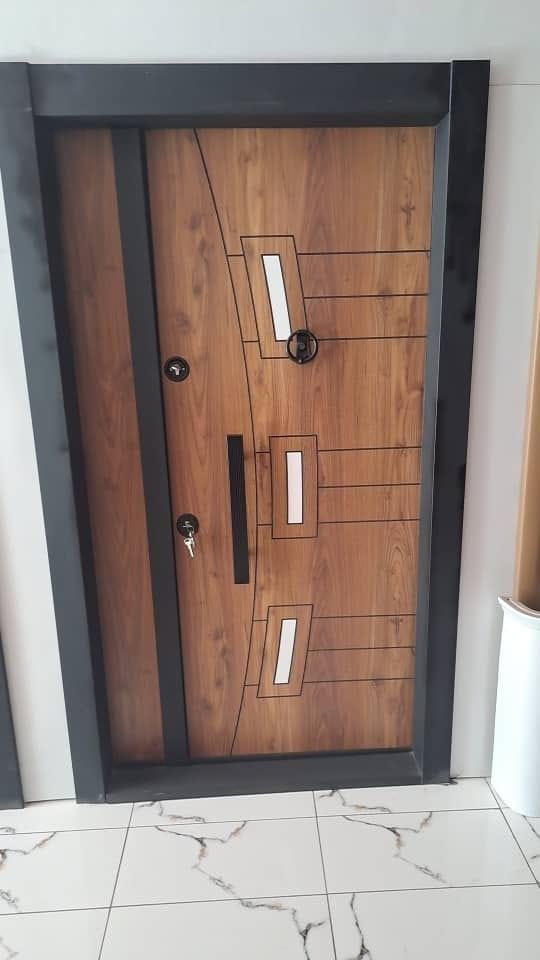
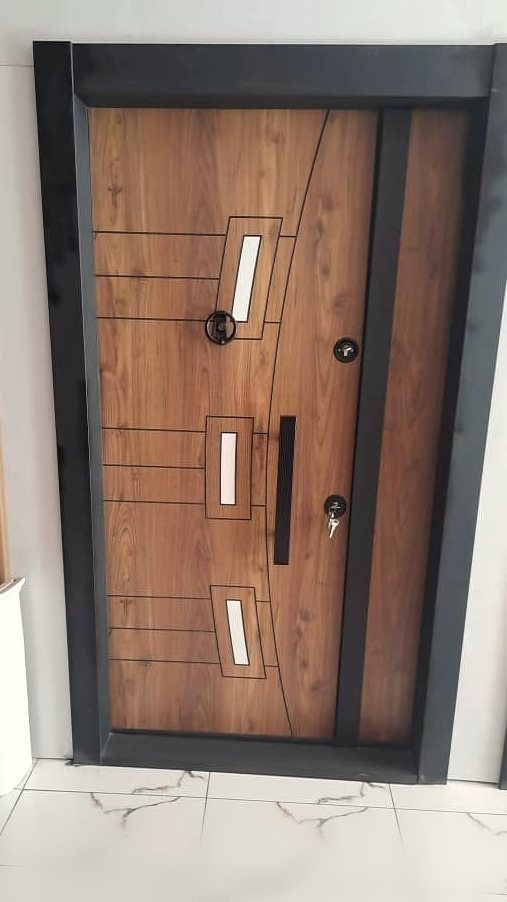
Our work: anonymise the remaining 17 project photos
All reel photos are clients' projects, so the ceilings, columns and doors
now get the same treatment as the interiors: mirrored, re-cropped, shared
colour grade, and identifying details removed - window views (office,
timber-beam tray, blue tray), the outside view between the fluted columns,
patterned floors under the doors, and the dome's street window, marker
patch and scaffold poles (cropped out).

diff --git a/src/content/works.ts b/src/content/works.ts
@@ -3,8 +3,9 @@ import type { L } from "./localized";
 /*
  * "Our work" reel on the home page: photos of finished and in-progress jobs.
  * Editors manage these in the Studio ("Work photos"); this list is used until any are published.
- * Source: assets/works_done (photos with other companies' watermarks were left out). Photos of
- * clients' rooms are anonymised: mirrored, personal items blurred, distinctive furnishings recoloured.
+ * Source: assets/works_done (photos with other companies' watermarks were left out). Every photo
+ * is of a client's project, so all are anonymised by scripts/anonymise-works.py: mirrored, cropped,
+ * personal items and views blurred, distinctive furnishings recoloured.
  */
 
 export const workCategories = ["ceilings", "classical", "joinery", "interiors", "doors"] as const;
@@ -31,28 +32,28 @@ const w = (id: string, category: WorkCategory, width: number, height: number, en
 /** In display order: groups alternate so the full reel has rhythm. */
 export const works: WorkPhoto[] = [
   w("majlis-seating", "interiors", 1504, 1128, "Majlis seating", "جلسة مجلس"),
-  w("oval-cove-chandelier", "ceilings", 735, 859, "Oval cove with crystal chandelier", "تجويف بيضاوي مع ثريا كريستال"),
-  w("columns-capitals-cornice", "classical", 1600, 1200, "Corinthian capitals and dentil cornice", "تيجان كورنثية وكورنيش مسنّن"),
+  w("oval-cove-chandelier", "ceilings", 706, 824, "Oval cove with crystal chandelier", "تجويف بيضاوي مع ثريا كريستال"),
+  w("columns-capitals-cornice", "classical", 1536, 1152, "Corinthian capitals and dentil cornice", "تيجان كورنثية وكورنيش مسنّن"),
   w("tv-wall-lit-shelves", "joinery", 707, 873, "TV wall with lit shelving", "جدار تلفاز مع رفوف مضاءة"),
-  w("tray-blue-cove", "ceilings", 736, 736, "Layered tray with blue cove light", "سقف متدرج بإضاءة زرقاء مخفية"),
-  w("fluted-columns-site", "classical", 1200, 1600, "Fluted columns, on site", "أعمدة مضلّعة أثناء التنفيذ"),
+  w("tray-blue-cove", "ceilings", 707, 713, "Layered tray with blue cove light", "سقف متدرج بإضاءة زرقاء مخفية"),
+  w("fluted-columns-site", "classical", 1128, 1552, "Fluted columns, on site", "أعمدة مضلّعة أثناء التنفيذ"),
   w("fireplace-wall-slats", "joinery", 983, 1475, "Fireplace wall with timber slats", "جدار مدفأة بشرائح خشبية"),
-  w("round-fretwork-ceiling", "ceilings", 720, 720, "Round fretwork feature ceiling", "سقف بزخرفة دائرية مفرّغة"),
-  w("door-vertical-grooves", "doors", 540, 960, "Entrance door with vertical grooves", "باب مدخل بأخاديد عمودية"),
-  w("dome-dentil-cornice", "classical", 1600, 1200, "Dome with dentil cornice", "قبة بكورنيش مسنّن"),
-  w("stepped-warm-cove", "ceilings", 720, 720, "Stepped ceiling with warm cove light", "سقف متدرج بإضاءة دافئة"),
+  w("round-fretwork-ceiling", "ceilings", 691, 691, "Round fretwork feature ceiling", "سقف بزخرفة دائرية مفرّغة"),
+  w("door-vertical-grooves", "doors", 507, 902, "Entrance door with vertical grooves", "باب مدخل بأخاديد عمودية"),
+  w("dome-dentil-cornice", "classical", 976, 1200, "Dome with dentil cornice", "قبة بكورنيش مسنّن"),
+  w("stepped-warm-cove", "ceilings", 691, 691, "Stepped ceiling with warm cove light", "سقف متدرج بإضاءة دافئة"),
   w("fitted-kitchen", "joinery", 677, 497, "Fitted kitchen", "مطبخ مُجهّز"),
-  w("pilaster-cornice-corner", "classical", 1200, 1600, "Pilaster and cornice corner", "زاوية عمود جداري وكورنيش"),
-  w("office-acoustic-ceiling", "ceilings", 899, 1599, "Office ceiling with acoustic panels and linear lights", "سقف مكتبي بألواح صوتية وإضاءة خطية"),
-  w("door-two-tone", "doors", 540, 960, "Two-tone entrance door", "باب مدخل بلونين"),
+  w("pilaster-cornice-corner", "classical", 1152, 1536, "Pilaster and cornice corner", "زاوية عمود جداري وكورنيش"),
+  w("office-acoustic-ceiling", "ceilings", 846, 1247, "Office ceiling with acoustic panels and linear lights", "سقف مكتبي بألواح صوتية وإضاءة خطية"),
+  w("door-two-tone", "doors", 507, 902, "Two-tone entrance door", "باب مدخل بلونين"),
   w("tv-wall-marble-slats", "joinery", 541, 839, "Marble-effect TV wall with slats", "جدار تلفاز بتأثير الرخام وشرائح"),
-  w("sculpted-backlit-curves", "ceilings", 518, 683, "Sculpted ceiling with backlit curves", "سقف بمنحنيات مضاءة من الخلف"),
-  w("column-base-panelling", "classical", 1200, 1600, "Column base and wall panelling", "قاعدة عمود وتكسية جدارية"),
+  w("sculpted-backlit-curves", "ceilings", 497, 656, "Sculpted ceiling with backlit curves", "سقف بمنحنيات مضاءة من الخلف"),
+  w("column-base-panelling", "classical", 1152, 1536, "Column base and wall panelling", "قاعدة عمود وتكسية جدارية"),
   w("bedroom-timber-ceiling", "interiors", 720, 604, "Bedroom with timber ceiling feature", "غرفة نوم بسقف خشبي مميز"),
-  w("tray-timber-beams", "ceilings", 720, 720, "Gypsum tray with timber beams", "سقف جبس متدرج بعوارض خشبية"),
-  w("door-inlay", "doors", 540, 960, "Entrance door with inlay pattern", "باب مدخل بنقش مطعّم"),
+  w("tray-timber-beams", "ceilings", 691, 684, "Gypsum tray with timber beams", "سقف جبس متدرج بعوارض خشبية"),
+  w("door-inlay", "doors", 507, 902, "Entrance door with inlay pattern", "باب مدخل بنقش مطعّم"),
   w("walk-in-wardrobe", "joinery", 691, 691, "Walk-in wardrobe", "غرفة ملابس"),
-  w("tray-blue-lit", "ceilings", 720, 900, "Tray ceiling with blue light", "سقف متدرج بإضاءة زرقاء"),
+  w("tray-blue-lit", "ceilings", 691, 864, "Tray ceiling with blue light", "سقف متدرج بإضاءة زرقاء"),
   w("living-layered-ceiling", "interiors", 460, 450, "Living room with layered ceiling", "غرفة معيشة بسقف متدرج"),
-  w("door-classic-panels", "doors", 540, 960, "Classic panelled door", "باب كلاسيكي بحشوات"),
+  w("door-classic-panels", "doors", 507, 902, "Classic panelled door", "باب كلاسيكي بحشوات"),
 ];

diff --git a/scripts/anonymise-works.py b/scripts/anonymise-works.py
@@ -16,7 +16,13 @@ SRC = sys.argv[1]  # assets/works_done
 OUT = sys.argv[2]  # public/images/works
 files = sorted(glob.glob(os.path.join(SRC, "*.jpeg")))
 source = {"majlis-seating": 21, "bedroom-timber-ceiling": 24, "living-layered-ceiling": 37, "fitted-kitchen": 25,
-          "tv-wall-lit-shelves": 44, "tv-wall-marble-slats": 31, "fireplace-wall-slats": 51, "walk-in-wardrobe": 22}
+          "tv-wall-lit-shelves": 44, "tv-wall-marble-slats": 31, "fireplace-wall-slats": 51, "walk-in-wardrobe": 22,
+          # ceilings, columns and doors: also clients' buildings
+          "columns-capitals-cornice": 6, "dome-dentil-cornice": 10, "fluted-columns-site": 1, "column-base-panelling": 5,
+          "pilaster-cornice-corner": 11, "oval-cove-chandelier": 40, "tray-blue-cove": 52, "stepped-warm-cove": 48,
+          "round-fretwork-ceiling": 49, "tray-timber-beams": 27, "tray-blue-lit": 46, "sculpted-backlit-curves": 33,
+          "office-acoustic-ceiling": 53, "door-vertical-grooves": 17, "door-two-tone": 14, "door-inlay": 18,
+          "door-classic-panels": 19}
 
 
 def px(im, box):
@@ -32,6 +38,18 @@ def blur_box(im, box, radius):
     m = max(2, min(region.size) // 8)
     ImageDraw.Draw(mask).rectangle((m, m, region.size[0] - m, region.size[1] - m), fill=255)
     im.paste(region, b[:2], mask.filter(ImageFilter.GaussianBlur(m)))
+
+
+def patch(im, box, dx, dy):
+    """Cover a box with a clean piece of the same surface from (dx, dy) away, soft-edged."""
+    b = px(im, box)
+    w, h = im.size
+    sx, sy = int(dx * w), int(dy * h)
+    piece = im.crop((b[0] + sx, b[1] + sy, b[2] + sx, b[3] + sy))
+    mask = Image.new("L", piece.size, 0)
+    m = max(2, min(piece.size) // 12)
+    ImageDraw.Draw(mask).rectangle((m, m, piece.size[0] - m, piece.size[1] - m), fill=255)
+    im.paste(piece, b[:2], mask.filter(ImageFilter.GaussianBlur(m * 0.8)))
 
 
 def blur_poly(im, pts, radius, desaturate=0.0):
@@ -125,6 +143,25 @@ def process(name, im):
     elif name == "tv-wall-lit-shelves":
         blur_box(im, (0.40, 0.48, 0.68, 0.70), 6)
         im = crop(im, (0.02, 0.0, 0.98, 0.97))
+    elif name == "dome-dentil-cornice":
+        # the street window (left), a marker patch and scaffold poles (right) all sit at the
+        # edges: crop to the dome and cornice, and soften the last bit of pole
+        blur_box(im, (0.74, 0.40, 0.80, 0.58), 12)
+        im = crop(im, (0.18, 0.0, 0.79, 1.0))
+    elif name == "fluted-columns-site":
+        blur_box(im, (0.35, 0.40, 0.59, 1.0), 16)  # the opening between the columns shows outside
+        im = crop(im, (0.03, 0.0, 0.97, 0.97))
+    elif name == "office-acoustic-ceiling":
+        im = crop(im, (0.03, 0.0, 0.97, 0.78))  # loses the windows and the view beyond
+    elif name == "tray-timber-beams":
+        blur_box(im, (0.0, 0.80, 0.32, 1.0), 12)
+        im = crop(im, (0.02, 0.0, 0.98, 0.95))
+    elif name == "tray-blue-cove":
+        blur_box(im, (0.80, 0.76, 1.0, 1.0), 12)
+        im = crop(im, (0.02, 0.0, 0.98, 0.97))
+    elif name.startswith("door-"):
+        blur_box(im, (0.0, 0.86, 1.0, 1.0), 10)  # patterned floor of the client's home
+        im = crop(im, (0.03, 0.02, 0.97, 0.96))
     else:
         im = crop(im, (0.02, 0.02, 0.98, 0.98))
     return grade(ImageOps.mirror(im))
